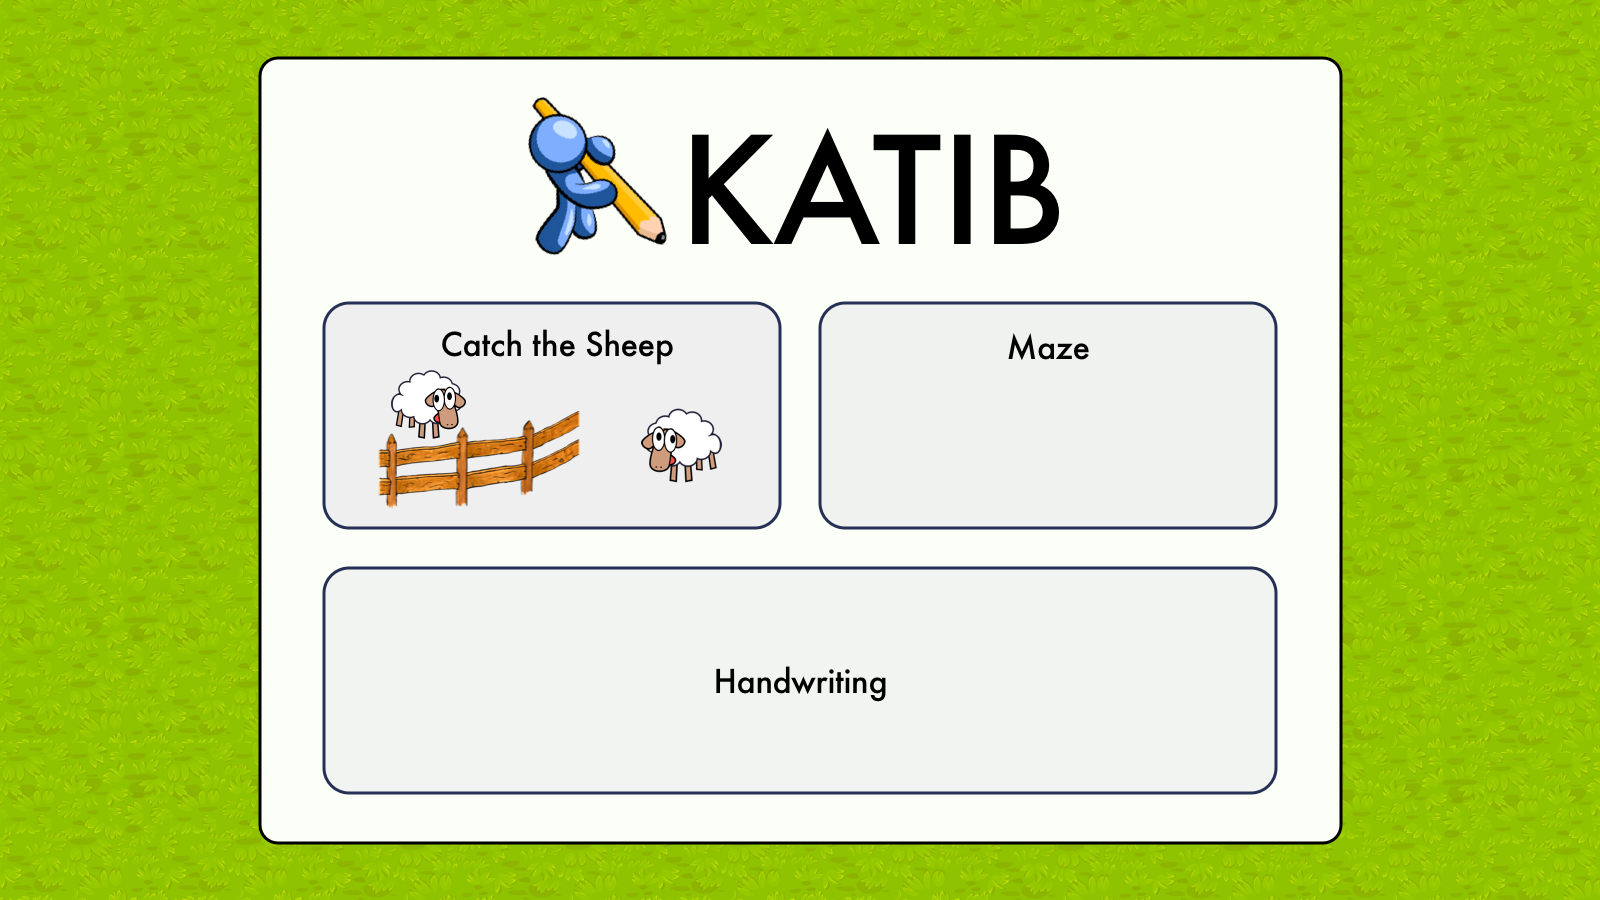
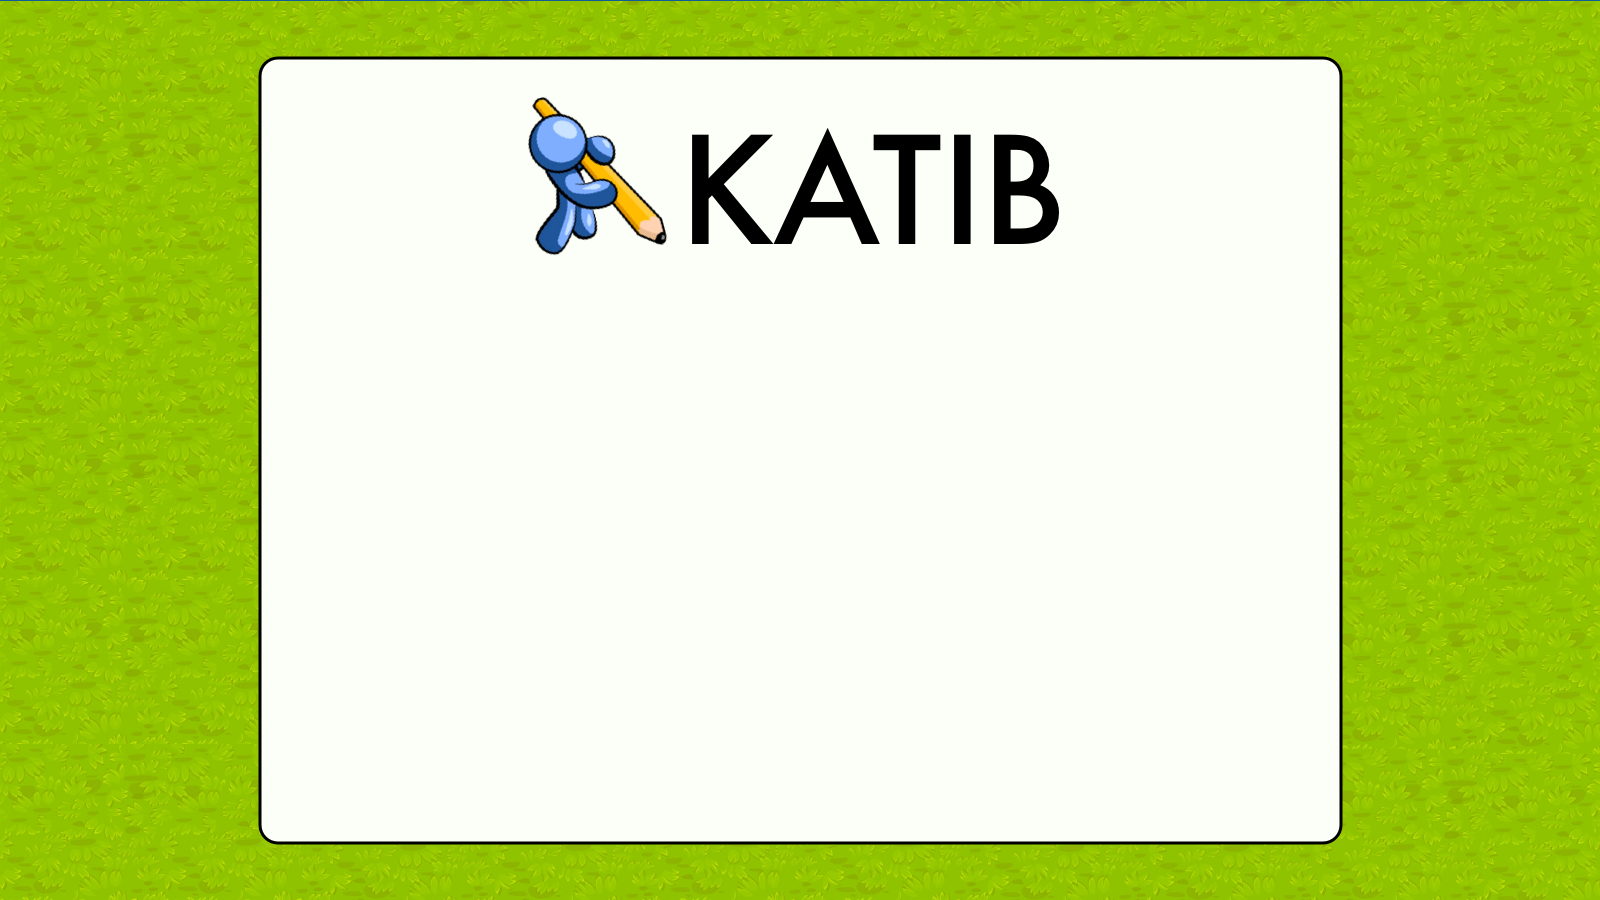
Edits

diff --git a/Main.py b/Main.py
@@ -33,7 +33,7 @@ opacity = 255 - GameParameters.GameParameters.brightness
 current_menu = 0
 prev_menu_stack = []
 calibrated = False
-on_katib = True
+on_katib = False
 
 # Design Variables:
 padding = 20
@@ -88,7 +88,6 @@ for i in range(len(games_menu)):
 # Grouping all menus
 menus = [start_menu, games_menu, settings_menu]
 
-
 def apply_brightness():
     global screen, screen_height, screen_width, opacity
     s = pygame.Surface((1600, 900), pygame.SRCALPHA)
@@ -107,55 +106,57 @@ def switch_to_menu(new_menu):
 def calibrate():
     # S 600 with the Gerbel protocol.
     # Calibrate
-    global gSer
-    gSer = serial.Serial('/dev/ttyACM0', '115200')
-    time.sleep(3)
-    gSer.flush()
-    gSer.flush()
-    print(gSer.readline())
-    print(gSer.readline())
-    time.sleep(1)
-    gSer.write(str.encode('$X\n'))
-    gSer.write(str.encode('M3 S100\n'))
-    gSer.write(str.encode('M3 S600\n'))
-    gSer.write(str.encode('$H\n'))
+    if on_katib:
+        global gSer
+        gSer = serial.Serial('/dev/ttyACM0', '115200')
+        time.sleep(3)
+        gSer.flush()
+        gSer.flush()
+        print(gSer.readline())
+        print(gSer.readline())
+        time.sleep(1)
+        gSer.write(str.encode('$X\n'))
+        gSer.write(str.encode('M3 S100\n'))
+        gSer.write(str.encode('M3 S600\n'))
+        gSer.write(str.encode('$H\n'))
 
-    time.sleep(5)
+        time.sleep(5)
 
-    gSer.write(str.encode('$X\n'))
-    gSer.write(str.encode('M3 S600\n'))
-    time.sleep(1)
-    gSer.write(str.encode('G10 P1 L20 X0 Y0\n'))
-    print(gSer.readline())
-    time.sleep(0.1)
-    gSer.write(str.encode('G21 X25  Y-10 F4000\n'))
-    print(gSer.readline())
-    time.sleep(0.1)
-    gSer.write(str.encode('G10 P1 L20 X0 Y0\n'))
-    print(gSer.readline())
-    time.sleep(2)
-    gSer.write(str.encode('$X\n'))
-    print(gSer.readline())
-    gSer.write(str.encode('M3 S1000\n'))
-    print(gSer.readline())
-    gSer.write(str.encode(' G21 X0 Y-154 F4000\n'))
-    print(gSer.readline())
-    gSer.write(str.encode('$X\n'))
-    gSer.write(str.encode(' G21 X250 Y-154 F4000\n'))
-    print(gSer.readline())
-    gSer.write(str.encode('$X\n'))
-    gSer.write(str.encode(' G21 X0 Y0 F4000\n'))
-    print(gSer.readline())
-    gSer.write(str.encode('$X\n'))
-    gSer.write(str.encode('M3 S1000\n'))
+        gSer.write(str.encode('$X\n'))
+        gSer.write(str.encode('M3 S600\n'))
+        time.sleep(1)
+        gSer.write(str.encode('G10 P1 L20 X0 Y0\n'))
+        print(gSer.readline())
+        time.sleep(0.1)
+        gSer.write(str.encode('G21 X25  Y-10 F4000\n'))
+        print(gSer.readline())
+        time.sleep(0.1)
+        gSer.write(str.encode('G10 P1 L20 X0 Y0\n'))
+        print(gSer.readline())
+        time.sleep(2)
+        gSer.write(str.encode('$X\n'))
+        print(gSer.readline())
+        gSer.write(str.encode('M3 S1000\n'))
+        print(gSer.readline())
+        gSer.write(str.encode(' G21 X0 Y-154 F4000\n'))
+        print(gSer.readline())
+        gSer.write(str.encode('$X\n'))
+        gSer.write(str.encode(' G21 X250 Y-154 F4000\n'))
+        print(gSer.readline())
+        gSer.write(str.encode('$X\n'))
+        gSer.write(str.encode(' G21 X0 Y0 F4000\n'))
+        print(gSer.readline())
+        gSer.write(str.encode('$X\n'))
+        gSer.write(str.encode('M3 S1000\n'))
     time.sleep(2)
     global calibrated
     calibrated = True
     # Confirmation
     print('Calibrated Katib device... Ready for commands')
-    pygame.mixer.init()  # Initialize the mixer module.
-    sound1 = pygame.mixer.Sound('success.mp3')  # Load a sound.
 
+screen.blit(loading, (0, 0))
+pygame.display.flip()
+calibrate()
 
 try:
     while Config.signed_in:
@@ -182,11 +183,7 @@ try:
                     raise StopIteration
                 if current_menu == 0:
                     if start_menu[0].rect.collidepoint(e.pos):
-                        if on_katib:
-                            screen.blit(loading, (0,0))
-                            pygame.display.flip()
-                            calibrate()
-                        if calibrated:
+                        if not on_katib or calibrated:
                             exec(open('Select_Game_Menu.py').read())
                         else:
                             print('error')

diff --git a/Select_Game_Menu.py b/Select_Game_Menu.py
@@ -13,19 +13,20 @@ background = pygame.image.load("pickgame.png")
 
 run = True
 
-
-# Rects
-collect_btn = Button.Button('img', ['catch_sheep.png'], (456, 225), '', False, 50, [(255, 255, 255)], (820, 303))
-# maze_rect = pygame.Rect(820, 303, 456, 225)
-collect_rect = pygame.Rect(324, 303, 456, 225)
-handwriting_rect = pygame.Rect(324, 568, 952, 225)
-
+# Buttons
+prev_menu_btn = Button.Button('img', ['go-back-arrow.png'], (50, 50), 'Prev', False, 50, [(0, 0, 0)],
+                              (screen_width / 15, screen_height / 9))
+collect_btn = Button.Button('img', ['catch_sheep.png'], (456, 225), '', False, 50, [(255, 255, 255)], (324 + (456/2), 303 + 225/2))
+maze_btn = Button.Button('img', ['Maze_button.png'], (456, 225), '', False, 50, [(255, 255, 255)], (820 + (456/2), 303 + 225/2))
+handwriting_btn = Button.Button('img', ['Writing_button.png'], (952, 225), '', False, 50, [(255, 255, 255)], (324 + (952/2), 568 + 225/2))
+game_btns = [collect_btn, maze_btn, handwriting_btn]
 
 def setup_screen():
-    global screen, start_btn
+    global screen, game_btns
     screen.blit(background, (0, 0))
-    collect_btn.draw_button()
-
+    for button in game_btns:
+        button.draw_button(screen)
+    prev_menu_btn.draw_button(screen)
 
 while run:
     setup_screen()
@@ -34,11 +35,13 @@ while run:
             if e.key == pygame.K_q:
                 run = False
         if e.type == pygame.MOUSEBUTTONDOWN:
+            if prev_menu_btn.rect.collidepoint(e.pos):
+                raise StopIteration
             if collect_btn.rect.collidepoint(e.pos):
                 exec(open('PreMaze.py').read())
-            elif collect_rect.collidepoint(e.pos):
+            elif collect_btn.rect.collidepoint(e.pos):
                 exec(open('Collecting_Task.py').read())
-            elif handwriting_rect.collidepoint(e.pos):
+            elif handwriting_btn.rect.collidepoint(e.pos):
                 exec(open('Writing_Task.py').read())
 
     pygame.display.flip()
